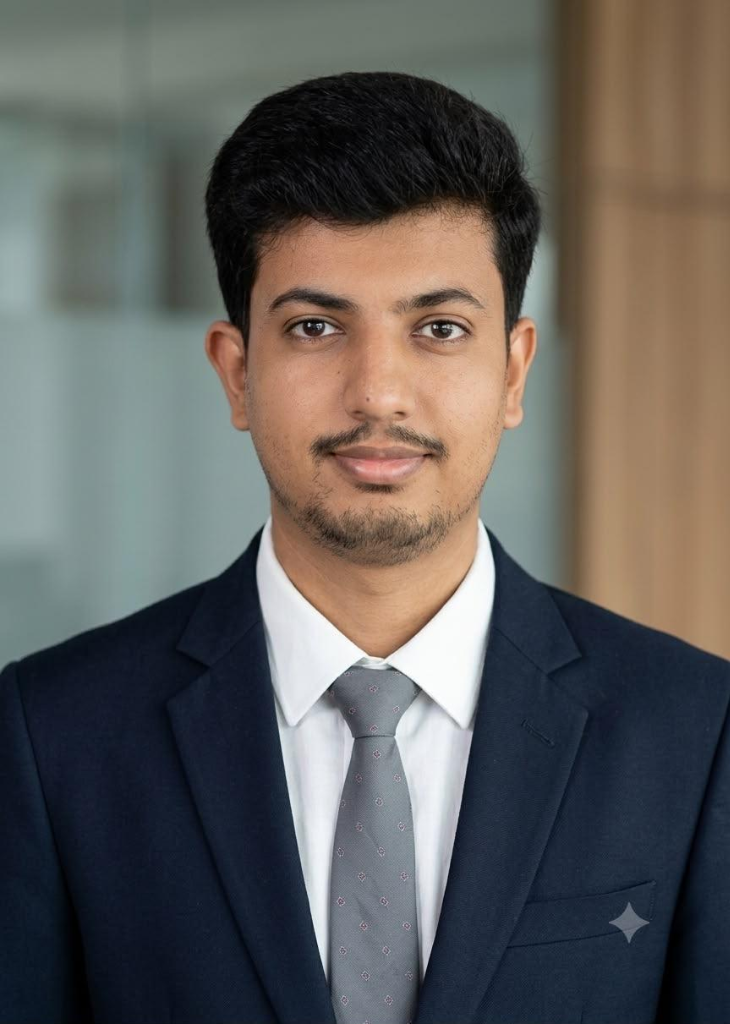
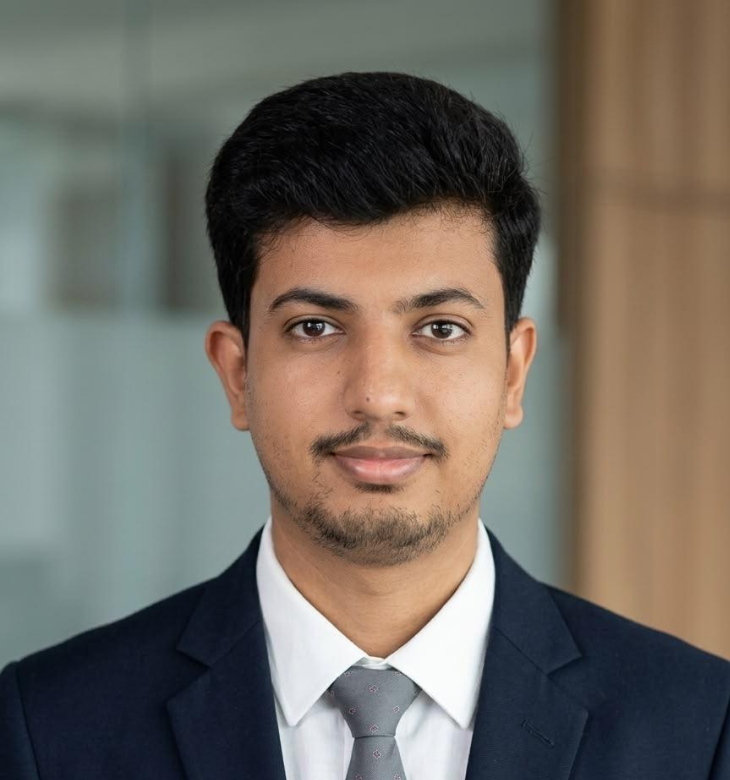
Crop profile photo from below for improved framing

diff --git a/index.md b/index.md
@@ -165,7 +165,7 @@ body, p, li, span, div {
 
       </div>
       <div style="text-align: center;">
-        <img src="/images/picture_resized.png?v=2" alt="Ravi Prakash Srivastava" style="border-radius: 8px; width: 100%; max-width: 220px; box-shadow: 0 4px 12px rgba(0,0,0,0.15);">
+        <img src="/images/picture_resized.png?v=3" alt="Ravi Prakash Srivastava" style="border-radius: 8px; width: 100%; max-width: 220px; box-shadow: 0 4px 12px rgba(0,0,0,0.15);">
         <div style="margin-top: 18px; font-size: 0.9rem; text-align: left; display: inline-block; width: 100%; max-width: 220px; box-shadow: 0 4px 12px rgba(0,0,0,0.02); border: 1px solid var(--border-color); padding: 14px; border-radius: 8px; background: var(--bg-card);">
           <div style="font-weight: 700; margin-bottom: 10px; color: var(--text-primary); font-size: 0.95rem;">Connect with me:</div>
           <div style="margin-bottom: 8px;"><a href="https://www.linkedin.com/in/ravi-prakash-sri/" target="_blank"><i class="fab fa-linkedin" style="width: 16px;"></i> LinkedIn</a></div>
